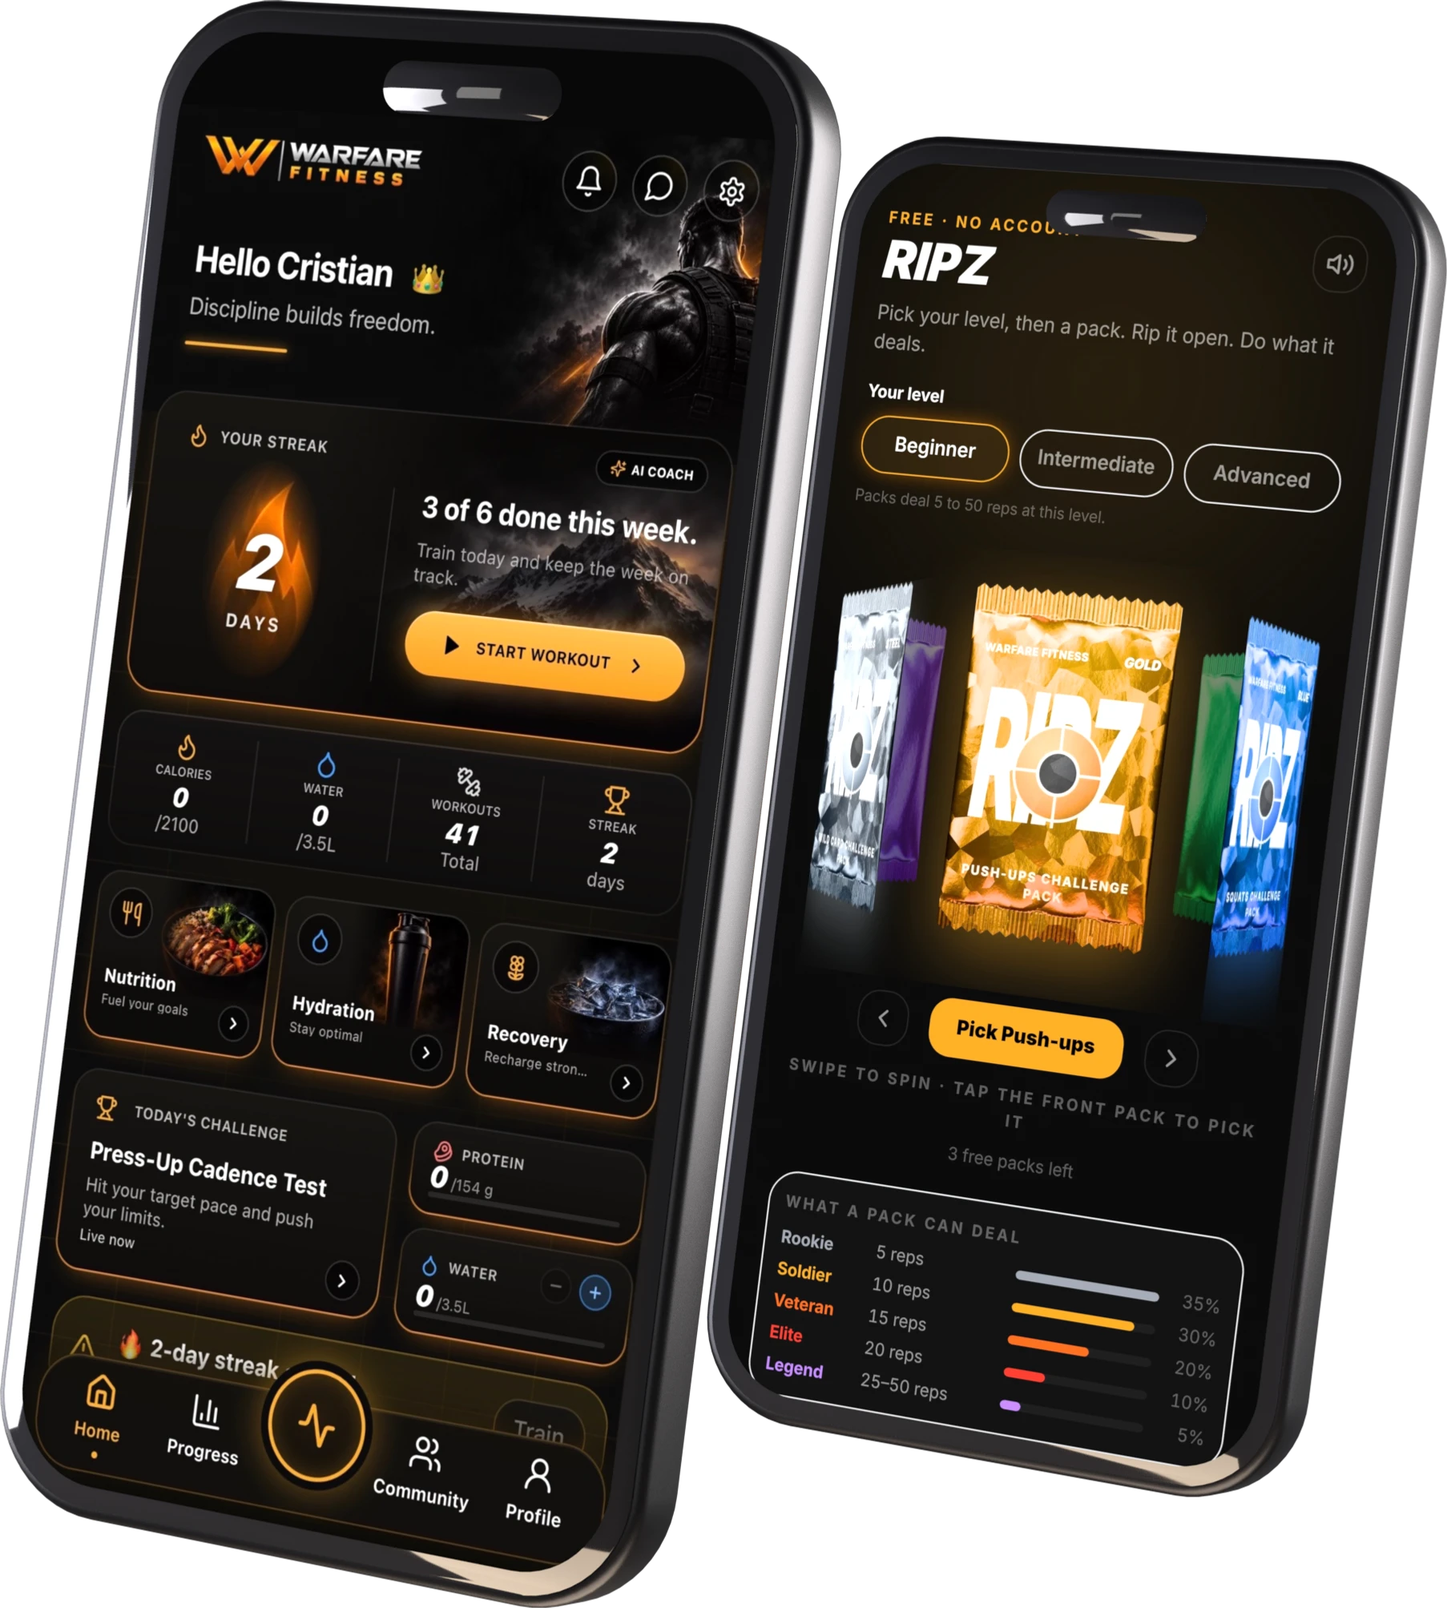
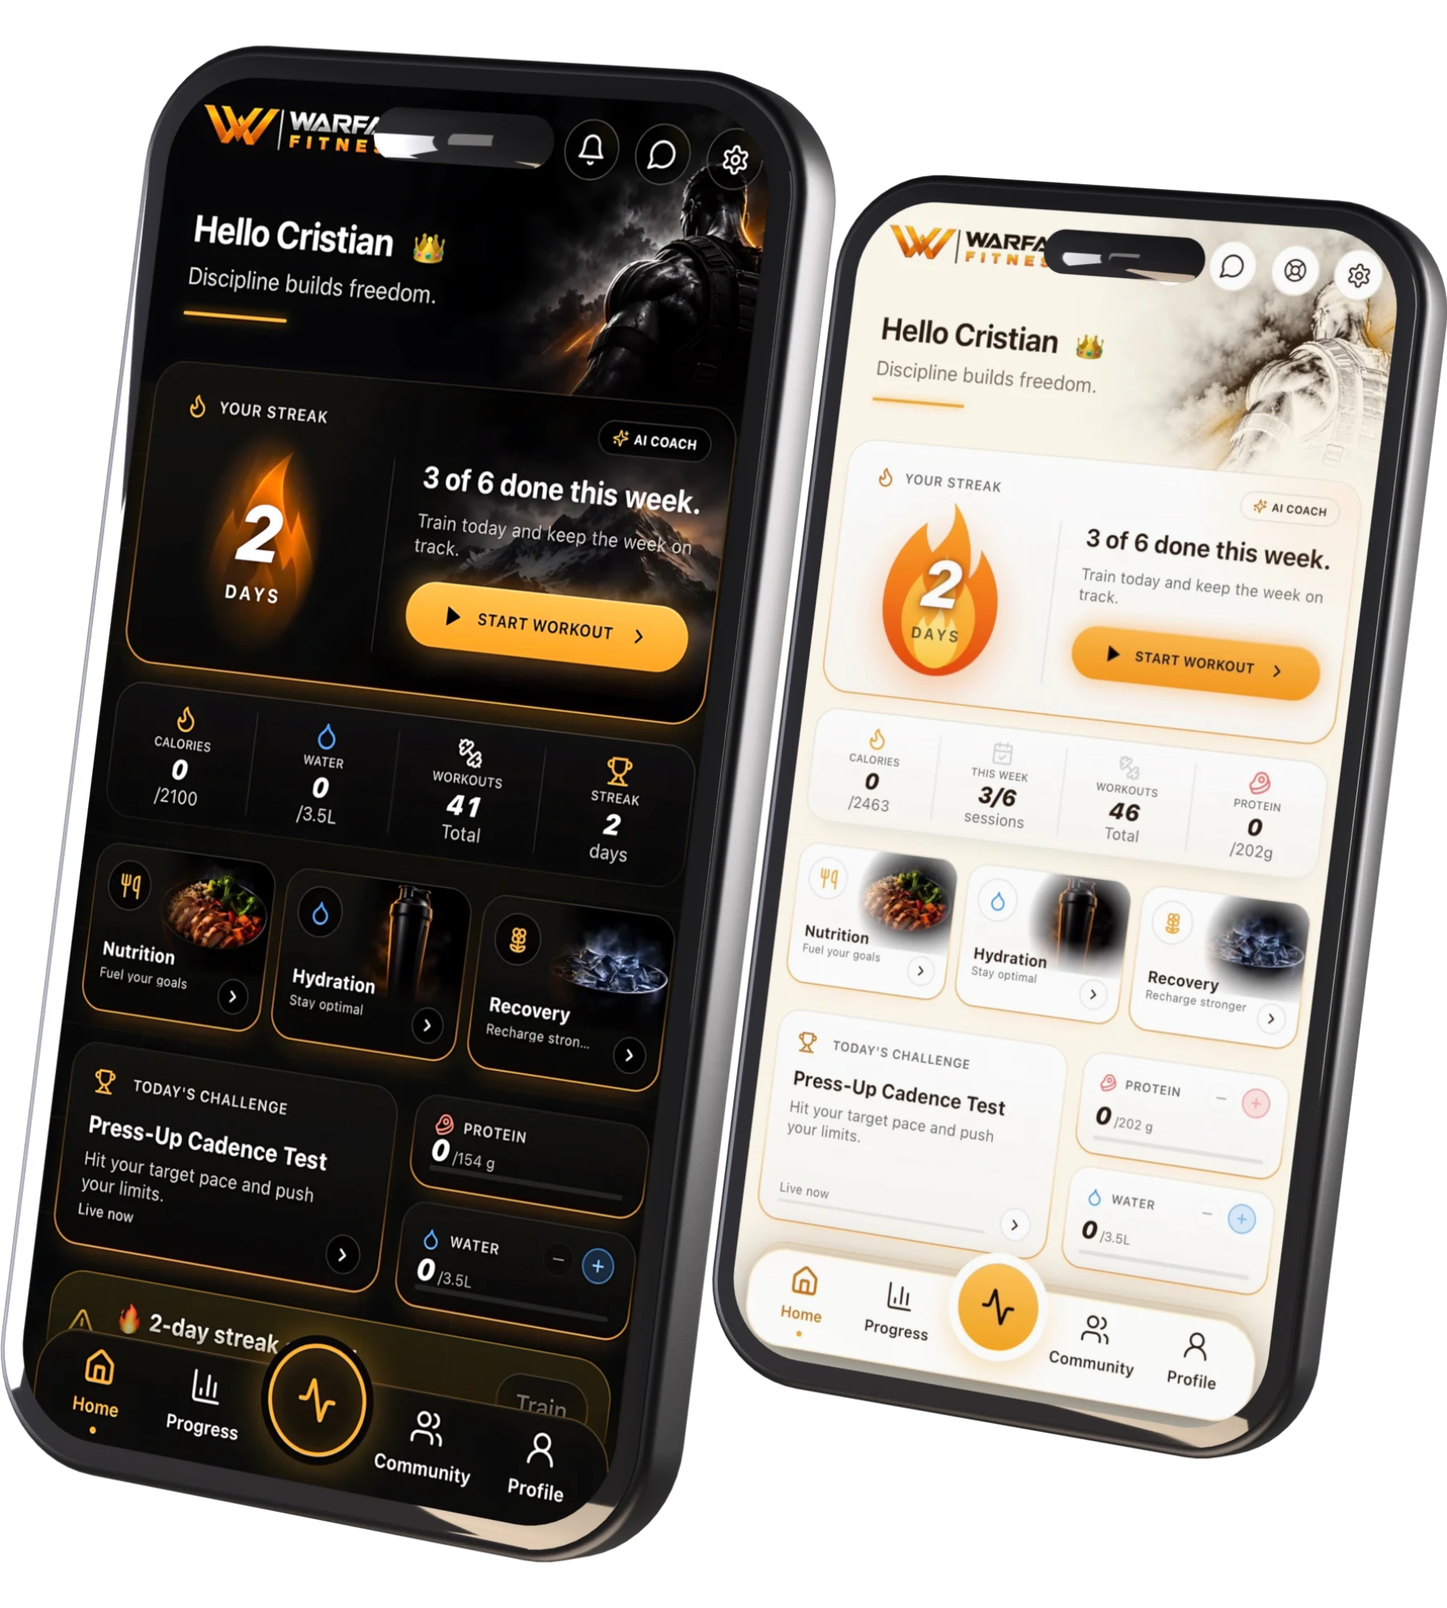
Landing hero phones: dark and light home screens, each filling its display
The second phone now shows the light-mode home screen in place of Ripz,
and the 3D phone's proportions match the app's screenshots (0.49), so
neither screen is cropped or padded. Also adds the 16:9 film source.

Claude-Session: https://claude.ai/code/session_014Xmm6a1V85rTLyXYfDJ2dw

diff --git a/scripts/cine/promo169.html b/scripts/cine/promo169.html
@@ -1,0 +1,141 @@
+<!doctype html><html><head><meta charset="utf-8">
+<!-- "Two worlds. One fitness experience." 16:9 cinematic app film, 74 s.
+     Real app screens only; each fills its phone display (screen aspect 0.49,
+     the app's own). Designed at 1920x1080, rendered at 2x = 3840x2160.
+     render169.mjs drives setT(t). Scene times are in the T table. -->
+<style>
+@font-face{font-family:Kanit;src:url(kanit-800-italic.woff2)}
+*{margin:0;box-sizing:border-box}
+html,body{width:1920px;height:1080px;overflow:hidden;background:#000;font-family:"Helvetica Neue",Inter,"SF Pro Display",system-ui,sans-serif;color:#fff}
+.w{position:absolute;inset:0}
+#dk{background:radial-gradient(1200px 820px at 76% 28%,rgba(255,122,26,.17),transparent 62%),radial-gradient(900px 700px at 10% 92%,rgba(255,122,26,.10),transparent 62%),linear-gradient(180deg,#0B0B0E,#040405)}
+#lt{background:radial-gradient(1200px 820px at 76% 28%,rgba(245,166,35,.26),transparent 62%),radial-gradient(900px 700px at 10% 92%,rgba(245,166,35,.16),transparent 62%),linear-gradient(180deg,#FFFEFA,#F6EEDF)}
+.floor{position:absolute;left:0;right:0;bottom:0;height:260px;background:linear-gradient(180deg,transparent,rgba(0,0,0,.35))}
+.vig{position:absolute;inset:0;background:radial-gradient(1500px 900px at 50% 50%,transparent 56%,rgba(0,0,0,.6));pointer-events:none}
+.abs{position:absolute}
+.tr{font-weight:300;letter-spacing:.4em;text-transform:uppercase}
+.kan{font-family:Kanit;font-style:italic;font-weight:800;text-transform:uppercase;line-height:.95}
+.gold{background:linear-gradient(180deg,#FFB347,#E8730C);-webkit-background-clip:text;background-clip:text;color:transparent}
+#stage{position:absolute;inset:0;perspective:2600px;transform-origin:50% 50%}
+.ph{position:absolute;width:400px;height:812px;margin:-406px 0 0 -200px;border-radius:60px;padding:10px;background:linear-gradient(135deg,#4a4540,#11100f 30%,#35302c 62%,#0c0b0a);box-shadow:0 60px 120px rgba(0,0,0,.55),0 0 0 1.5px rgba(255,255,255,.10),inset 0 0 0 2px rgba(0,0,0,.85);opacity:0;will-change:transform}
+.ph::before{content:'';position:absolute;right:-4px;top:210px;width:4px;height:96px;border-radius:2px;background:linear-gradient(90deg,#2a2623,#55504a)}
+.ph::after{content:'';position:absolute;left:-4px;top:170px;width:4px;height:54px;border-radius:2px;background:linear-gradient(270deg,#2a2623,#55504a);box-shadow:0 74px 0 #3a3531}
+.sc{position:relative;width:100%;height:100%;border-radius:51px;overflow:hidden;background:#0B0B0D}
+.sc img{position:absolute;inset:0;width:100%;height:100%;object-fit:cover;object-position:50% 0}
+.isl{position:absolute;left:50%;top:12px;width:104px;height:28px;margin-left:-52px;border-radius:16px;background:#040404;z-index:6}
+.gl{position:absolute;inset:0;z-index:5;background:linear-gradient(112deg,rgba(255,255,255,.14) 0%,rgba(255,255,255,0) 26%,rgba(255,255,255,0) 74%,rgba(255,255,255,.05) 100%);pointer-events:none}
+.cap{position:absolute;top:330px;width:740px}
+.cap .n{font-weight:300;font-size:21px;letter-spacing:.42em;text-transform:uppercase;color:#FF9A3D}
+.cap .t{font-weight:600;font-size:86px;line-height:1.02;letter-spacing:-.02em;margin-top:22px}
+.cap .d{font-weight:300;font-size:33px;line-height:1.36;margin-top:24px;opacity:.8}
+.rule{height:2px;width:110px;background:#FF7A1A;box-shadow:0 0 14px rgba(255,122,26,.8);margin-top:32px}
+.big{font-weight:600;letter-spacing:-.02em;line-height:1.0}
+</style></head><body>
+<div class="w" id="dk"><div class="floor"></div></div><div class="w" id="lt" style="clip-path:inset(0 100% 0 0)"></div>
+<div class="abs" id="beam" style="top:0;bottom:0;width:900px;opacity:0;background:linear-gradient(98deg,transparent 0,rgba(255,224,170,0) 40%,rgba(255,240,210,.95) 50%,rgba(255,224,170,0) 60%,transparent 100%);mix-blend-mode:screen"></div>
+<div id="stage"></div><div id="ui" class="w"></div><div class="vig" id="vig"></div>
+<script>
+const Q=new URLSearchParams(location.search), $=(s)=>document.querySelector(s), stage=$('#stage'), ui=$('#ui');
+const h=(s,root=ui)=>{root.insertAdjacentHTML('beforeend',s);return root.lastElementChild;};
+const cl=(x)=>Math.min(1,Math.max(0,x)), ease=(x)=>{x=cl(x);return 1-Math.pow(1-x,3);}, io=(x)=>{x=cl(x);return x<.5?4*x*x*x:1-Math.pow(-2*x+2,3)/2;}, lerp=(a,b,k)=>a+(b-a)*k;
+const win=(t,a,b,fi=.6,fo=.6)=>cl((t-a)/fi)*(1-cl((t-(b-fo))/fo));
+const T={s2:7,s3:18,s4:29,w0:31.5,w1:35.5,s5:40,s6:51,s7:64,end:74}; window.DUR=T.end;
+const phone=(imgs)=>{const p=h(`<div class="ph"><div class="sc">${imgs.map(s=>`<img src="${s}">`).join('')}<div class="isl"></div><div class="gl"></div></div></div>`,stage);p.imgs=[...p.querySelectorAll('img')];return p;};
+const place=(p,x,y,ry,rx,sc,op,blur=0,z=1)=>{p.style.opacity=op;p.style.visibility=op>0.002?'visible':'hidden';p.style.left=x+'px';p.style.top=y+'px';p.style.zIndex=z;p.style.filter=blur>0.05?`blur(${blur}px)`:'none';p.style.transform=`rotateY(${ry}deg) rotateX(${rx}deg) scale(${sc})`;};
+const show=(p,f)=>p.imgs.forEach((im,i)=>im.style.opacity=i===0?1:cl(f-(i-1)));
+const cap=(x,ink)=>h(`<div class="cap" style="left:${x}px;color:${ink}"><div class="n"></div><div class="t"></div><div class="d"></div><div class="rule"></div></div>`);
+const setCap=(c,n,t,d)=>{c.children[0].textContent=n;c.children[1].textContent=t;c.children[2].textContent=d;};
+
+// Scene 2 · dark
+const D=[['app-home.png','Dashboard','Your streak, your week and your next session.'],
+         ['app-training.png','Training plan','A full program matched to your goal, day by day.'],
+         ['app-set.png','Workout','Every set tracked: weight, reps and rest.'],
+         ['app-nutrition.png','Nutrition','Calories, macros and water in one place.'],
+         ['app-quests.png','Quests','Missions that reward showing up.']];
+const pD=phone(D.map(d=>d[0])), capD=cap(1040,'#fff');
+// Scene 3 · four phones in depth
+const S3=['food_dark_c.png','fast_dark.png','habits_dark.png','app-coach.png'].map(s=>phone([s]));
+const h3=h(`<div class="abs tr" style="left:0;right:0;top:30px;text-align:center;font-size:20px;color:#FF9A3D">More than workouts</div>`);
+const l3=h(`<div class="abs" style="left:0;right:0;top:62px;text-align:center;font-weight:300;font-size:30px;letter-spacing:.02em;opacity:.85"></div>`);
+// Scene 4 · dark to light
+const p4=phone(['app-home.png','home_light.jpg']);
+const t4a=h(`<div class="abs" style="left:150px;top:410px;width:560px"><div class="tr" style="font-size:21px;color:#FF9A3D">Dark mode</div><div class="big" style="font-size:112px;margin-top:22px">Two<br>worlds.</div></div>`);
+const t4b=h(`<div class="abs" style="left:1270px;top:392px;width:600px;color:#1E1410"><div class="tr" style="font-size:21px;color:#C9760A">Light mode</div><div class="big" style="font-size:100px;margin-top:22px">One experience.<br><span style="color:#D9820F">Your way.</span></div></div>`);
+// Scene 5 · light, two phones
+const LA=['home_light.jpg','set_light.jpg','ripz_light.png'], LB=['training_light.jpg','progress_light.jpg','fast_light.png'];
+const LC=[['Dashboard and plan','The same app, in a theme made for daylight.'],['Workout and progress','Log the set. Watch your stats climb.'],['Ripz and fasting','Workout card packs, and a fasting timer that explains each stage.']];
+const pA=phone(LA), pB=phone(LB), capL=cap(130,'#1E1410');
+// Scene 6 · five phones
+const S6=['app-quests.png','app-training.png','app-home.png','progress_light.jpg','habits_light.png'].map(s=>phone([s]));
+const WORDS=['Train smarter.','Train with purpose.','Track your progress.','Build your next level.'];
+const w6=h(`<div class="abs big" style="left:0;right:0;top:54px;text-align:center;font-size:52px;font-weight:300;letter-spacing:.2em;text-transform:uppercase"></div>`);
+// Scene 7 · close
+const p7a=phone(['app-home.png']), p7b=phone(['home_light.jpg']);
+const end=h(`<div class="abs" style="left:0;right:0;top:270px;text-align:center">
+  <div class="tr" id="e1" style="font-size:19px;letter-spacing:.3em;color:#FF9A3D">Built for progress · Designed for results</div>
+  <div class="big" id="e2" style="font-size:92px;margin-top:34px">Your next level<br>starts here.</div>
+  <img id="e3" src="logo-wf.webp" style="height:78px;margin-top:56px">
+  <div class="tr" id="e4" style="font-size:26px;margin-top:34px;letter-spacing:.32em">warfarefitness.com</div>
+  <div id="e5" style="font-weight:300;font-size:21px;letter-spacing:.22em;margin-top:16px;opacity:.6;text-transform:uppercase">7 days free · iPhone · Android · Web</div></div>`);
+// Scene 1 · opening
+const s1=h(`<div class="w" style="background:#000;overflow:hidden">
+  <div class="abs" id="g1" style="left:50%;top:50%;width:1700px;height:1000px;margin:-500px 0 0 -850px;background:radial-gradient(closest-side,rgba(255,140,40,.20),transparent)"></div>
+  <div class="abs" id="k1" style="left:-200px;top:300px;width:1100px;height:10px;border-radius:5px;background:linear-gradient(90deg,transparent,#FF7A1A,#FFB347);transform:rotate(-38deg);filter:blur(1.5px) drop-shadow(0 0 22px rgba(255,122,26,.8))"></div>
+  <div class="abs" id="k2" style="right:-260px;top:720px;width:1100px;height:6px;border-radius:3px;background:linear-gradient(90deg,transparent,#FF7A1A,#FFB347);transform:rotate(-38deg);filter:blur(2px) drop-shadow(0 0 18px rgba(255,122,26,.7))"></div>
+  <div class="abs" id="hl" style="left:0;right:0;top:404px;text-align:center"><div class="big" id="a1" style="font-size:118px;font-weight:300;letter-spacing:.14em;text-transform:uppercase">Your body.</div><div class="big" id="a2" style="font-size:118px;font-weight:300;letter-spacing:.14em;text-transform:uppercase;margin-top:18px;color:#FF9A3D">Your rules.</div></div>
+  <div class="abs" style="left:0;right:0;top:486px;text-align:center"><img id="lg" src="logo-wf.webp" style="height:104px;opacity:0"></div></div>`);
+
+window.setT=(t)=>{
+  // world
+  const W=io((t-T.w0)/(T.w1-T.w0)), split=io((t-T.s6)/1.4), close=ease((t-T.s7)/1.0);
+  const lt=$('#lt'); lt.style.opacity=1-close;
+  lt.style.clipPath=t<T.s6?`inset(0 ${(1-W)*100}% 0 0)`:`polygon(${lerp(0,56,split)}% 0,100% 0,100% 100%,${lerp(0,44,split)}% 100%)`;
+  const beam=$('#beam'); beam.style.opacity=win(t,T.w0,T.w1,.5,.5); beam.style.left=(W*1920-450)+'px';
+  $('#vig').style.opacity=lerp(1,.2,W*(1-close)*(1-.4*split));
+  // scene 1
+  { const o=1-cl((t-6.3)/.8); s1.style.opacity=o; s1.style.visibility=o>0?'visible':'hidden'; s1.style.transform=`scale(${1+.06*cl(t/7)})`;
+    $('#g1').style.opacity=ease((t-.6)/2.6); $('#k1').style.opacity=.55*ease((t-1)/2.4); $('#k2').style.opacity=.4*ease((t-1.6)/2.4);
+    $('#k1').style.translate=`${t*14}px ${-t*10}px`; $('#k2').style.translate=`${-t*10}px ${t*7}px`;
+    const out=1-cl((t-4.5)/.7);
+    [['#a1',1.5],['#a2',2.5]].forEach(([id,a])=>{const k=ease((t-a)/1.3),e=$(id);e.style.opacity=k*out;e.style.transform=`translateY(${(1-k)*22}px)`;e.style.letterSpacing=lerp(.3,.14,k)+'em';});
+    const k=ease((t-5.0)/1.1); $('#lg').style.opacity=k; $('#lg').style.transform=`scale(${lerp(1.1,1,k)})`; }
+  // scene 2
+  { const o=win(t,T.s2-.2,T.s3,1.1,.5), u=cl((t-T.s2)/(T.s3-T.s2)), f=u*5, i=Math.min(4,Math.floor(f)), loc=f-i, kin=ease((t-T.s2+.2)/1.8);
+    place(pD, lerp(600,640,u), 545+(1-kin)*70, lerp(30,16,kin)+Math.sin(t*.45)*1.5, 4, lerp(.98,1.2,kin), o);
+    show(pD, i+ease((loc-.86)/.14)); const a=win(loc,0,1,.14,.12)*o;
+    capD.style.opacity=a; capD.style.transform=`translateY(${(1-ease(loc/.2))*24}px)`; setCap(capD,`0${i+1} / 05`,D[i][1],D[i][2]); }
+  // scene 3
+  { const o=win(t,T.s3,T.s4,.7,.6), u=cl((t-T.s3)/(T.s4-T.s3)), k=io((t-23.2)/1.6);
+    h3.style.opacity=o; l3.style.opacity=o*.85; l3.textContent=k<.5?'AI food scanner · AI coach':'Fasting timer · Habit quitting';
+    const A=[[660,1.18,0,3],[1130,.94,1.2,2]], B=[[1130,.94,1.2,2],[760,1.18,0,3]];
+    const X=[lerp(700,1230,k),lerp(1200,740,k),1620,300], Sc=[lerp(1.08,.88,k),lerp(.88,1.08,k),.72,.72], RY=[lerp(10,-14,k),lerp(-14,10,k),-26,26], Bl=[lerp(0,1.4,k),lerp(1.4,0,k),2.2,2.2], Z=[k<.5?3:2,k<.5?2:3,1,1];
+    S3.forEach((p,j)=>{ const kin=ease((t-T.s3-.1-j*.3)/1.2);
+      place(p, X[j]+lerp(50,-50,u), 590+(1-kin)*180+(j>1?10:0), RY[j]+Math.sin(t*.4+j)*1.5, 4, Sc[j]*lerp(.93,1,kin), o*kin*(j>1?.8:1), Bl[j], Z[j]); }); }
+  // scene 4
+  { const o=win(t,T.s4,T.s5+.2,.8,.6), u=cl((t-T.s4)/(T.s5-T.s4));
+    place(p4, 960, 548, lerp(-9,9,io(u)), 4, lerp(1.04,1.16,u), o);
+    const k=cl((W*1920-740)/440); p4.imgs[1].style.opacity=1; p4.imgs[1].style.clipPath=`inset(0 ${(1-k)*100}% 0 0)`;
+    t4a.style.opacity=win(t,T.s4+.5,T.w0+1.4,.8,.8); t4a.style.transform=`translateX(${-28*(1-ease((t-T.s4-.5)/1.1))}px)`;
+    t4b.style.opacity=win(t,T.w1-.6,T.s5,.9,.5); t4b.style.transform=`translateX(${28*(1-ease((t-T.w1+.6)/1.1))}px)`; }
+  // scene 5
+  { const o=win(t,T.s5,T.s6+.1,.7,.6), u=cl((t-T.s5)/(T.s6-T.s5)), f=u*3, i=Math.min(2,Math.floor(f)), loc=f-i, kin=ease((t-T.s5)/1.4), x=i+ease((loc-.88)/.12);
+    place(pA, lerp(1150,1120,u), 520+(1-kin)*120, -12+Math.sin(t*.4)*1.5, 3, 1.02, o*kin, 0, 2);
+    place(pB, lerp(1590,1570,u), 590+(1-kin)*200, -18+Math.sin(t*.4+1)*1.5, 3, .94, o*ease((t-T.s5-.35)/1.4), 0, 1);
+    show(pA,x); show(pB,x); const a=win(loc,0,1,.14,.12)*o;
+    capL.style.opacity=a; capL.style.transform=`translateY(${(1-ease(loc/.2))*24}px)`; setCap(capL,`0${i+1} / 03`,LC[i][0],LC[i][1]); }
+  // scene 6
+  { const o=win(t,T.s6,T.s7+.2,.8,.7), u=cl((t-T.s6)/(T.s7-T.s6)), xs=[250,600,960,1320,1670], sc=[.7,.88,1.1,.88,.7], ry=[30,18,0,-18,-30], bl=[1.6,.5,0,.5,1.6], z=[1,2,3,2,1];
+    S6.forEach((p,j)=>{ const kin=ease((t-T.s6-.15-Math.abs(j-2)*.28)/1.3);
+      place(p, xs[j]+lerp(70,-70,u), 590+(1-kin)*200, ry[j], 4, sc[j]*lerp(.92,1,kin)*(1+.04*u), o*kin, bl[j], z[j]); });
+    const f=cl((t-T.s6-1)/(T.s7-T.s6-1.6))*4, i=Math.min(3,Math.floor(f)), loc=f-i;
+    w6.textContent=WORDS[i]; w6.style.opacity=win(loc,0,1,.16,.14)*o; w6.style.letterSpacing=lerp(.3,.2,ease(loc/.4))+'em';
+    // the headline sits over the dark/light split: white with a soft dark edge reads on both
+    w6.style.mixBlendMode='difference'; }
+  // scene 7
+  { const o=ease((t-T.s7-.5)/1.2), k=ease((t-T.s7-.5)/2.2), push=1+.035*cl((t-T.s7)/(T.end-T.s7));
+    place(p7a, lerp(110,270,k), 560, 26, 4, .92*push, o); place(p7b, lerp(1810,1650,k), 560, -26, 4, .92*push, o);
+    end.style.transform=`scale(${push})`;
+    [['#e1',1.0],['#e2',1.5],['#e3',2.6],['#e4',3.3],['#e5',3.8]].forEach(([id,a])=>{const q=ease((t-T.s7-a)/1.1),e=$(id);e.style.opacity=(id==='#e5'?.6:1)*q;e.style.translate=`0 ${(1-q)*18}px`;}); }
+};
+window.addEventListener('load',()=>{window.READY=true;setT(+(Q.get('t')||0));});
+</script></body></html>

diff --git a/scripts/cine/score.py b/scripts/cine/score.py
@@ -1,0 +1,49 @@
+"""Original score for the 74 s film (numpy only). python score.py out.wav
+Follows the cut: rumble (0-7), pulse enters with dark mode (7), fuller pulse (18),
+riser into the dark-to-light wipe with an impact at 33.5, a brighter major pad
+in the light section (35.5-51), build (51-64), final impact at 64, resolve."""
+import sys, wave, numpy as np
+SR=48000; DUR=74.0; N=int(SR*DUR); t=np.arange(N)/SR; rng=np.random.default_rng(3)
+def env(a,b,fi=1.0,fo=1.0): return np.clip((t-a)/fi,0,1)*np.clip((b-t)/fo,0,1)
+def lp(x,k):  # crude low-pass by moving average
+    return np.convolve(x,np.ones(k)/k,mode='same')
+L=np.zeros(N); R=np.zeros(N)
+def add(sig,pan=0.0,g=1.0):
+    global L,R; L+=sig*g*(1-max(pan,0)); R+=sig*g*(1+min(pan,0))
+def tone(f,ph=0): return np.sin(2*np.pi*f*t+ph)
+# deep bed: D1/A1 drone, slow movement
+bed=(tone(36.71)*.55+tone(55.0,.4)*.35+tone(73.42,1.1)*.18)*(.8+.2*np.sin(2*np.pi*.07*t))
+add(bed*env(0,DUR,3,3),0,.5)
+add(lp(rng.standard_normal(N),900)*env(0,DUR,4,3)*6,0,.5)          # rumble / air
+# dark pad (D minor), light pad (D major), cross-faded at the wipe
+def pad(fs,det=.3): return sum(tone(f)+tone(f+det,1)+tone(f*2,.5)*.3 for f in fs)/len(fs)
+dark=pad([146.83,174.61,220.0]); light=pad([146.83,185.0,220.0,293.66])
+add(dark*env(5,35.5,4,2.5)*.5,-.15,.16); add(dark*env(64,DUR,.6,3)*.5,.15,.2)
+add(light*env(33.5,66,2.5,2.5),.15,.15)
+# pulse: eighth notes at 100 bpm, opening filter over time
+beat=60/100/2
+def pulse(a,b,f,g,pan):
+    ph=((t-a)%beat)/beat; e=np.exp(-ph*7)*env(a,b,1.5,.4)
+    add((np.sign(tone(f))*.25+tone(f)*.75)*e,pan,g)
+pulse(7,29.5,73.42,.12,-.2); pulse(18,29.5,146.83,.07,.25)
+pulse(40,64,73.42,.10,.2); pulse(51,64,220.0,.05,-.25); pulse(51,64,293.66,.04,.3)
+# kick-like hits on scene changes, big ones at the wipe and the finale
+def hit(at,g=1.0,low=48):
+    d=t-at; m=(d>=0)&(d<2.5); x=np.zeros(N)
+    x[m]=np.sin(2*np.pi*(low+70*np.exp(-d[m]*18))*d[m])*np.exp(-d[m]*2.6)
+    n=np.zeros(N); n[m]=rng.standard_normal(m.sum())*np.exp(-d[m]*9)
+    add(x,0,.55*g); add(lp(n,40),0,.9*g)
+for at,g in [(7,.7),(18,.6),(33.5,1.0),(40,.55),(51,.7),(64,1.1)]: hit(at,g)
+# risers into the wipe and into the finale
+def riser(a,b,g):
+    d=np.clip((t-a)/(b-a),0,1); m=(t>=a)&(t<b); x=np.zeros(N)
+    x[m]=(rng.standard_normal(m.sum())*.5+np.sin(2*np.pi*np.cumsum(200+1400*d[m]**2)/SR)*.5)*d[m]**2
+    add(lp(x,6),-.2,g); add(lp(np.roll(x,400),6),.2,g)
+riser(29.5,33.5,.22); riser(60.5,64,.24)
+# small interface ticks on each screen change
+ticks=[7+2.2*i for i in range(1,5)]+[23.2]+[40+11/3*i for i in range(1,3)]+[52+2.85*i for i in range(4)]
+for at in ticks:
+    d=t-at; m=(d>=0)&(d<.08); x=np.zeros(N); x[m]=np.sin(2*np.pi*2400*d[m])*np.exp(-d[m]*60); add(x,.3,.06)
+mix=np.stack([L,R],1); mix*=env(0,DUR,.05,1.6)[:,None]; mix=np.tanh(mix*1.5); mix/=np.max(np.abs(mix))/.89
+with wave.open(sys.argv[1],'wb') as w: w.setnchannels(2); w.setsampwidth(2); w.setframerate(SR); w.writeframes((mix*32767).astype('<i2').tobytes())
+print('wrote',sys.argv[1])

diff --git a/scripts/landing-phones/phones.py b/scripts/landing-phones/phones.py
@@ -7,7 +7,7 @@ sc.render.engine = 'CYCLES'; sc.cycles.samples = 160; sc.cycles.use_denoising = 
 sc.render.film_transparent = True
 sc.render.resolution_x, sc.render.resolution_y = 2600, 2800
 sc.view_settings.view_transform = 'Standard'
-W, H, T = 0.74, 1.54, 0.08
+W, H, T = 0.74, 1.437, 0.08
 
 def pbr(name, color, metallic, rough):
     m = bpy.data.materials.new(name); m.use_nodes = True
@@ -16,11 +16,11 @@ def pbr(name, color, metallic, rough):
     return m
 GOLD = pbr('black', (0.025, 0.025, 0.028), 1.0, 0.38)
 BLACK = pbr('black', (0.008, 0.008, 0.01), 0.0, 0.06)
-def mat_screen(img):
+def mat_screen(img, strength=1.15):
     m = bpy.data.materials.new('scr'); m.use_nodes = True
     nt = m.node_tree; nt.nodes.clear()
     t = nt.nodes.new('ShaderNodeTexImage'); t.image = bpy.data.images.load(os.path.join(D, img))
-    e = nt.nodes.new('ShaderNodeEmission'); e.inputs['Strength'].default_value = 1.15
+    e = nt.nodes.new('ShaderNodeEmission'); e.inputs['Strength'].default_value = strength
     o = nt.nodes.new('ShaderNodeOutputMaterial')
     nt.links.new(t.outputs['Color'], e.inputs['Color']); nt.links.new(e.outputs['Emission'], o.inputs['Surface'])
     return m
@@ -42,7 +42,7 @@ def slab(w, h, t, r, mat, name, edge=0.012):
     return o
 
 def screen(w, h, r, img):
-    o = slab(w, h, 0.002, r, mat_screen(img), 'screen', edge=0)
+    o = slab(w, h, 0.002, r, mat_screen(img, 0.96 if 'light' in img else 1.15), 'screen', edge=0)
     uv = o.data.uv_layers.new(name='uv')
     for poly in o.data.polygons:
         for li in poly.loop_indices:
@@ -59,7 +59,7 @@ def phone(img, loc, rot):
     body.location = loc; body.rotation_euler = [math.radians(a) for a in rot]
     return body
 
-phone('screen_ripz.jpg', (0.52, -0.02, -0.75), (0, -26, -7))
+phone('screen_home_light.jpg', (0.52, -0.02, -0.75), (0, -26, -7))
 phone('screen_home_p.jpg', (-0.20, 0.0, 0.2), (0, -26, -7))
 
 cam = bpy.data.objects.new('cam', bpy.data.cameras.new('cam')); bpy.context.collection.objects.link(cam)
